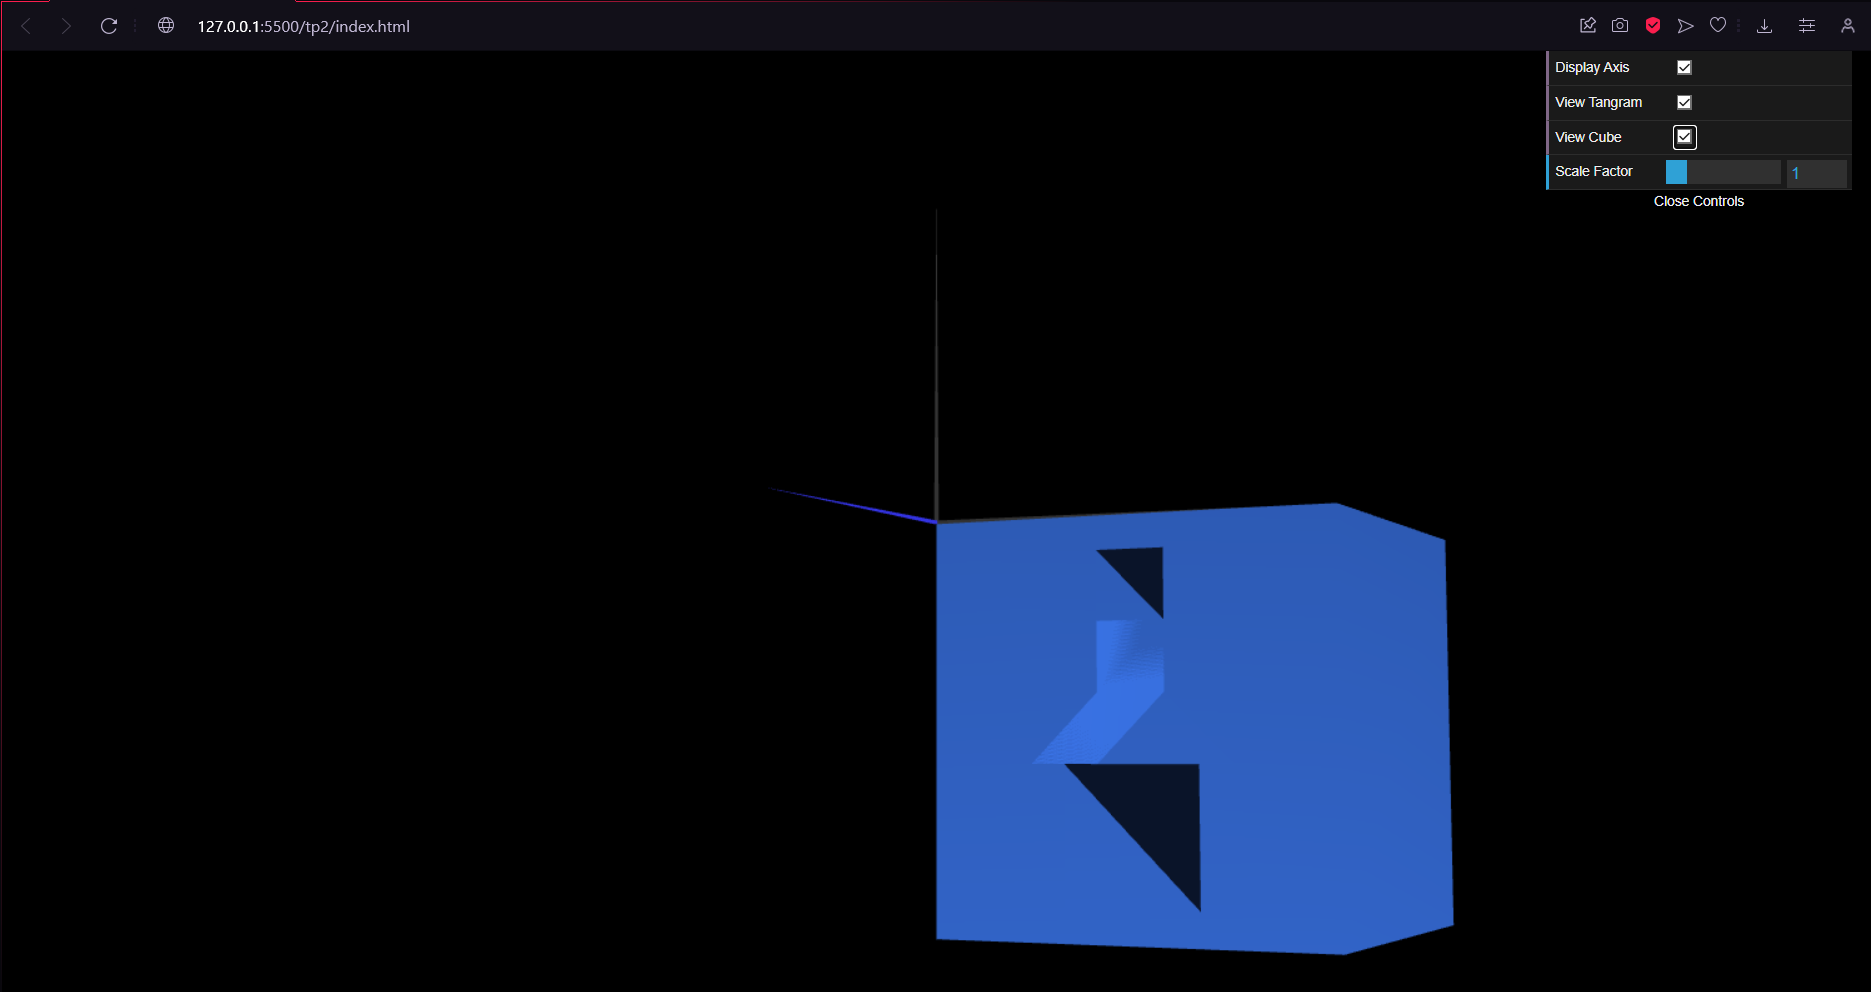
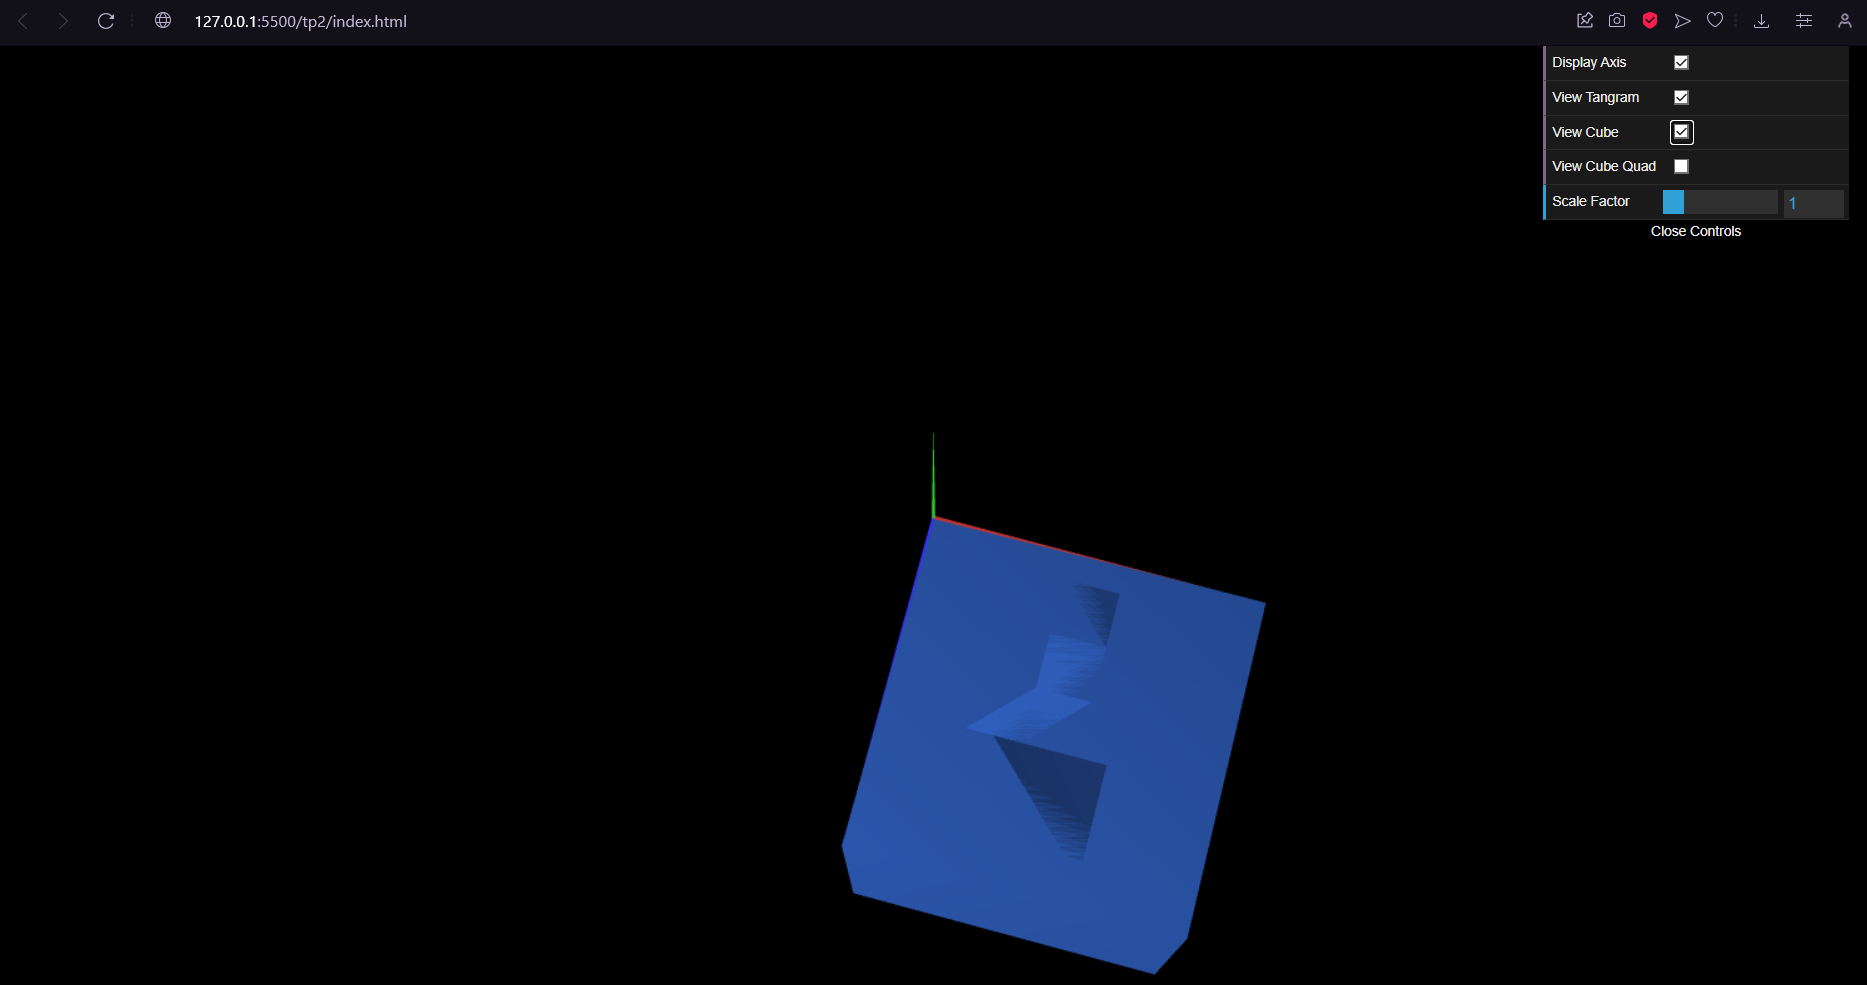
tp2-2

diff --git a/tp2/MyScene.js b/tp2/MyScene.js
@@ -94,28 +94,27 @@ export class MyScene extends CGFscene {
     ];
 
     this.multMatrix(sca);
-    
-    this.pushMatrix();
-
-    this.scale(6,6,6);
-    this.translate(0.5,-0.5,-0.5);
-    if(this.visibilityCube) this.cube.display();
-    
-    this.popMatrix();
 
     this.pushMatrix();
 
-    this.scale(6,6,6);
-    this.translate(0.5,-0.5,-0.5);
-    if(this.visibilityCubeQuad) this.cubeQuad.display();
-    
-    this.popMatrix();
+    this.translate(3,-3,3);
+    this.rotate(-1*Math.PI/2,1,0,0);
 
     this.pushMatrix();
 
-    this.translate(3,-3,0);
+    this.translate(0,0,3);
     if(this.visibilityTangram) this.tangram.display();
 
     this.popMatrix();
+    
+    this.pushMatrix();
+
+    this.scale(6,6,6);
+    if(this.visibilityCube) this.cube.display();
+    
+    this.popMatrix();
+    
+    this.popMatrix();
+
   }
 }
